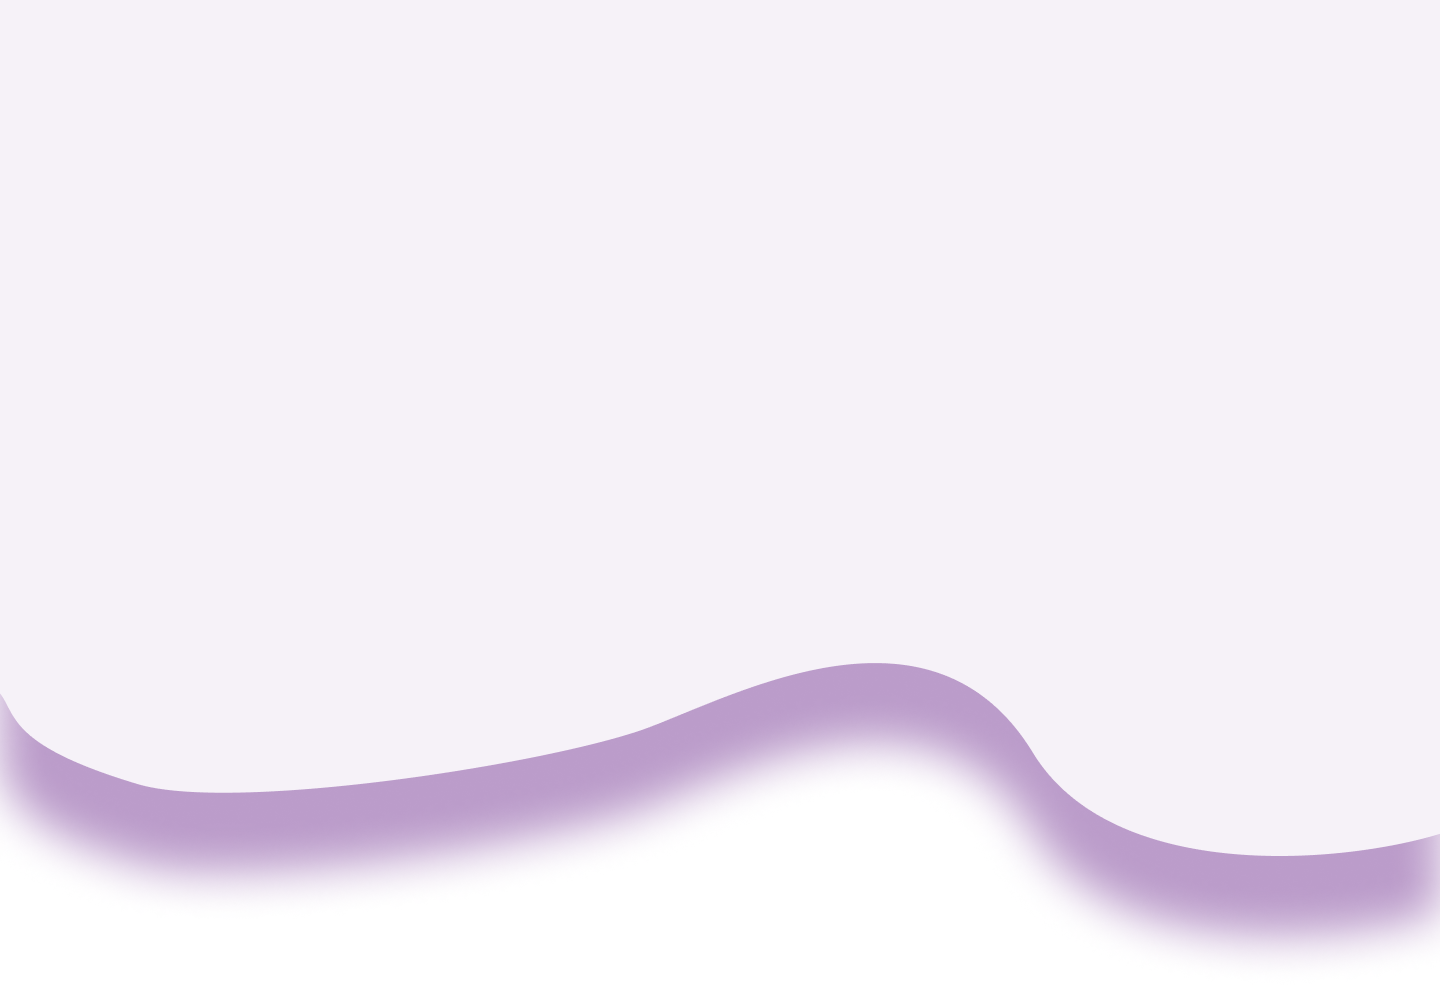
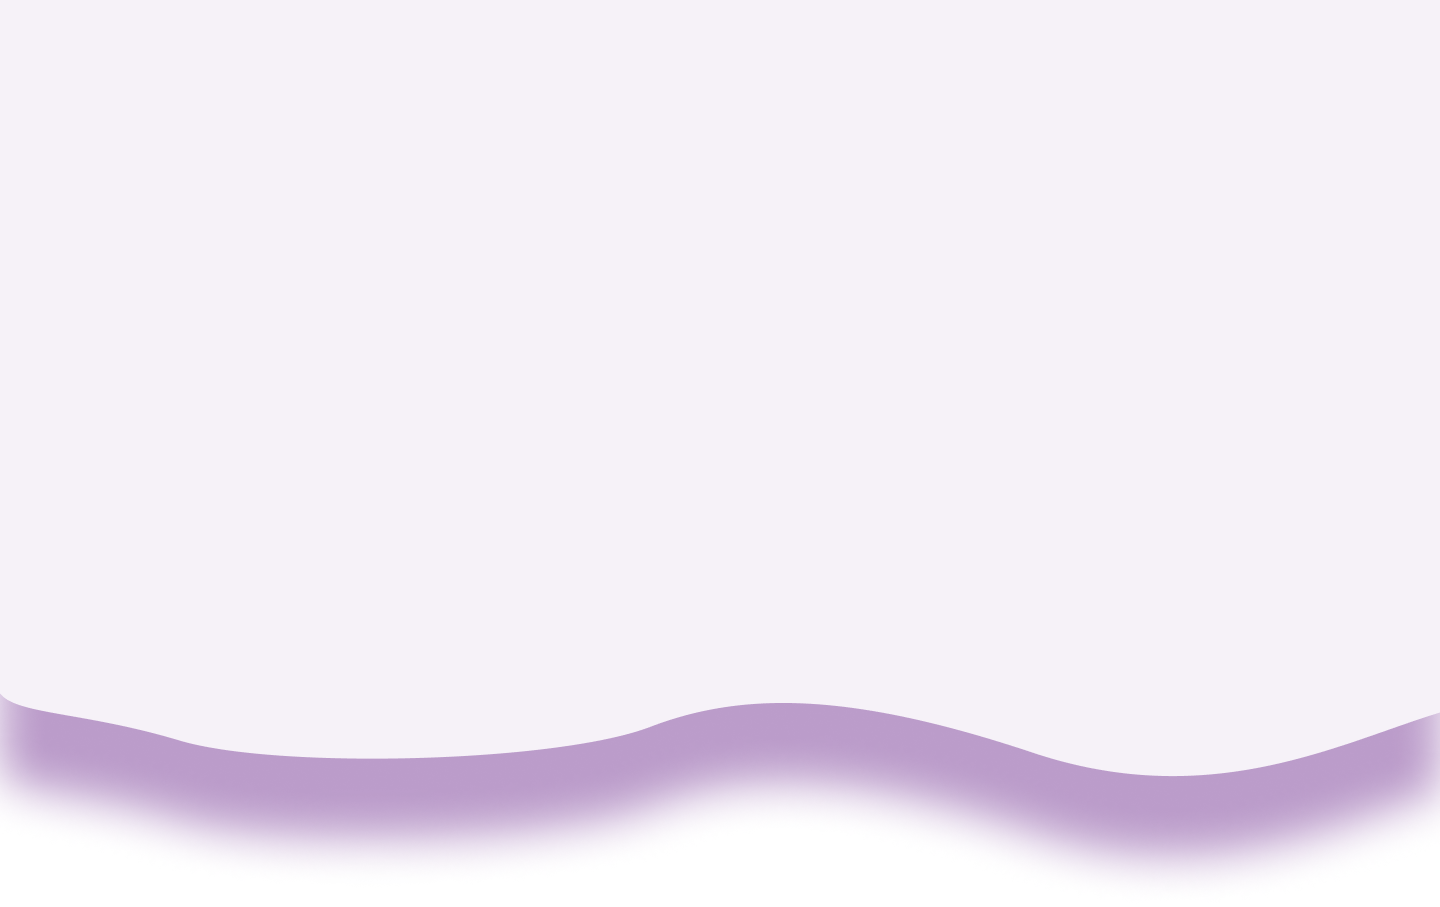
ca avance

Changed region(s): [[0.0, 0.6483, 1.0, 0.957]]

diff --git a/src/css/index.css b/src/css/index.css
@@ -5,41 +5,6 @@
   src: url('../font/Handlee-Regular.woff2') format('woff2');
   font-display: swap;
 }
-.loader {
-  display: block;
-  --height-of-loader: 4px;
-  --loader-color: #42065E;
-  width: 130px;
-  height: var(--height-of-loader);
-  border-radius: 30px;
-  background-color: rgba(0,0,0,0.2);
-  position: relative;
-}
-
-.loader::before {
-  content: "";
-  position: fixed;
-  background: var(--loader-color);
-  top: 0;
-  left: 0;
-  width: 0%;
-  height: 100%;
-  border-radius: 30px;
-  animation: moving 1s ease-in-out infinite;
-  ;
-}
-
-@keyframes moving {
-  50% {
-    width: 100%;
-  }
-
-  100% {
-    width: 0;
-    right: 0;
-    left: unset;
-  }
-}
 body {
   font-family: 'Nimbus sans L';
 }
@@ -54,20 +19,20 @@ header {
   justify-content: center;
   position: fixed;
   top: 0;
-  background-color: #BB9CCA;
-  z-index: 999;
+  /* background-color: #F6F2F8; */
+  z-index: 99;
 }
 
 header nav ul {
   display: flex;
   list-style: none;
-  gap: 24px;
+  gap: 32px;
 }
 
 header nav a {
   text-transform: uppercase;
   font-size: 16px;
-  color: #FFF;
+  color: #3E3E3E;
 }
 
 header nav .active {
@@ -77,14 +42,34 @@ header nav .active {
 h1{
   text-transform: uppercase;
   padding-top: 136px;
-  color: #fff;
+  color: #323232;
   font-weight: 700;
   font-size: 64px;
+  width: 90%;
+  text-align: right;
+}
+.button{
+  margin-top: 24px;
+  background-color: #42065E;
+  color: #FFF;
+  padding: 25px 60px;
+  width: 110px;
+  border-radius: 50px;
+  cursor: pointer;
+  transition: all 0.5s ease;
+}
+.button:hover{
+  background-color: #8E5AA6;
 }
 h2 {
   font-weight: 700;
   color: #323232;
   font-size: 28px;
+}
+.subtitle{
+  color: #3E3E3E;
+  font-size: 18px;
+  margin-top: 8px;
 }
 span{
   font-family: 'Handlee';
@@ -94,20 +79,46 @@ span{
   color: #fff;
   font-size: 18px;
 }
+.prog-button{
+  color: #FFF;
+}
+.prog-button:hover{
+  opacity: 0.8;
+}
+.prog-button svg {
+  margin-left: 8%;
+}
+.box-text .text{
+  margin-bottom: 32px;
+}
 .home-top {
   background-image: url('../image/bg-home-top.png');
   background-repeat: no-repeat;
-  background-size: contain;
-  background-color: #BB9CCA;
-  height: 1024px;
+  background-size: cover;
+  width: 100vw;
+  height: 900px;
 }
-
+.content-home-top{
+  display: flex; /* Utilisation de flexbox pour organiser les éléments */
+  align-items: center; /* Centrer verticalement les éléments */
+  justify-content: space-between; /* Espacement uniforme entre les éléments */
+  height: 700px;
+}
+.content-home-top-text{
+  display: flex;
+  flex-direction: column;
+  align-items: flex-end;
+}
 .number-section{
   margin: 128px 0;
   display: flex;
   align-items: center;
   justify-content: center;
   flex-direction: column;
+}
+.number-section h2{
+  color: #42065E;
+  text-align: center;
 }
 .flex-number{
   width: 80vw;
@@ -250,7 +261,7 @@ span{
 .parent {
   margin-top: 64px;
   display: grid;
-  grid-template-columns: repeat(4, 1fr);
+  grid-template-columns: repeat(6, 1fr);
   grid-template-rows: repeat(3, 1fr);
   grid-column-gap: 0px;
   grid-row-gap: 64px;
@@ -268,37 +279,13 @@ span{
   height: 100px;
   margin-bottom: 16px;
 }
-.div1 {
-  grid-area: 1 / 2 / 2 / 3;
-}
-
-.div2 {
-  grid-area: 1 / 3 / 2 / 4;
-}
-
-.div3 {
-  grid-area: 2 / 1 / 3 / 2;
-}
-
-.div4 {
-  grid-area: 2 / 2 / 3 / 3;
-}
-
-.div5 {
-  grid-area: 2 / 3 / 3 / 4;
-}
-
-.div6 {
-  grid-area: 2 / 4 / 3 / 5;
-}
-
-.div7 {
-  grid-area: 3 / 2 / 4 / 3;
-}
-
-.div8 {
-  grid-area: 3 / 3 / 4 / 4;
-}
+.div1 { grid-area: 1 / 2 / 2 / 4; }
+.div2 { grid-area: 1 / 4 / 2 / 6; }
+.div3 { grid-area: 2 / 1 / 3 / 3; }
+.div4 { grid-area: 2 / 3 / 3 / 5; }
+.div5 { grid-area: 2 / 5 / 3 / 7; }
+.div6 { grid-area: 3 / 2 / 4 / 4; }
+.div7 { grid-area: 3 / 4 / 4 / 6; }
 
 .name {
   font-size: 24px;

diff --git a/index.html b/index.html
@@ -21,22 +21,17 @@
     </nav>
   </header>
   <main>
-    <div id="loader" class="loader"></div>
-    <script>
-      window.addEventListener('load', function() {
-        var loader = document.getElementById('loader');
-        loader.style.display = 'none';
-        document.querySelector('main').style.visibility = 'visible'; // Sélectionnez la balise main correctement
-      });
-    </script>
     <section class="home-top">
       <div class="content-home-top grid">
-        <h1>Votez pour vous !</h1>
-        <a class="button">Nous découvrir</a>
+        <img src="/src/image/team2.png" alt="">
+        <div class="content-home-top-text">
+          <h1>Votez pour vous !</h1>
+          <a href="#pourquoi-nous" class="button">Nous découvrir</a>
+        </div>
       </div>
     </section>
     <section class="number-section grid">
-      <h2>✨ Pour un BDE qui tient la route ✨</h2>
+      <span class="star">✨</span><h2>Pour un BDE <br>qui tient la route</h2><span class="star">✨</span>
       <p class="subtitle">Les 3 chiffres pour nous connaitre</p>
       <div class="flex-number">
         <div class="number-card">
@@ -98,7 +93,12 @@
             egestas, ac scelerisque ante pulvinar. Donec ut rhoncus ex. Suspendisse ac rhoncus nisl, eu tempor urna.
             Curabitur vel bibendum lorem. Morbi convallis convallis diam sit amet lacinia. Aliquam in elementum tellus.
           </p>
-          <a href="">Notre programme</a>
+          <a class="prog-button" href="#programme">
+            Notre programme
+             <svg width="16" height="8" viewBox="0 0 16 8" fill="none" xmlns="http://www.w3.org/2000/svg">
+            <path d="M1 1L6.74691 6.6192C7.2662 7.12693 8.09596 7.12693 8.61524 6.6192L14.3622 1" stroke="white" stroke-width="1.48468" stroke-linecap="round"/>
+            </svg>
+            </a>
         </div>
       </div>
     </section>
@@ -144,17 +144,17 @@
       <h2>Notre équipe</h2>
       <div class="parent">
         <div class="div1">
-          <img src="/src/image/profil.jpg" alt="">
+          <img src="/src/image/profil-thomas.jpg" alt="">
           <p class="name">RIQUIER Thomas</p>
           <p class="role">Président</p>
         </div>
         <div class="div2">
-          <img src="/src/image/profil.jpg" alt="">
+          <img src="/src/image/profil-dina.jpg" alt="">
           <p class="name">RAKOTONARIVO Dina</p>
           <p class="role">Secrétaire</p>
         </div>
         <div class="div3">
-          <img src="/src/image/profil.jpg" alt="">
+          <img src="/src/image/profil-line.jpg" alt="">
           <p class="name">CABARET Line </p>
           <p class="role">Trésorière</p>
         </div>
@@ -169,19 +169,14 @@
           <p class="role">CM</p>
         </div>
         <div class="div6">
-          <img src="/src/image/profil.jpg" alt="">
+          <img src="/src/image/profil-edgar.jpg" alt="">
           <p class="name">QUEMERE Edgar</p>
           <p class="role">Graphiste</p>
         </div>
         <div class="div7">
-          <img src="/src/image/profil.jpg" alt="">
+          <img src="/src/image/profil-noemie.jpg" alt="">
           <p class="name">NUNEZ Noémie</p>
           <p class="role">Designer</p>
-        </div>
-        <div class="div8">
-          <img src="/src/image/profil.jpg" alt="">
-          <p class="name">RIQUIER Thomas </p>
-          <p class="role">Président</p>
         </div>
       </div>
     </section>
